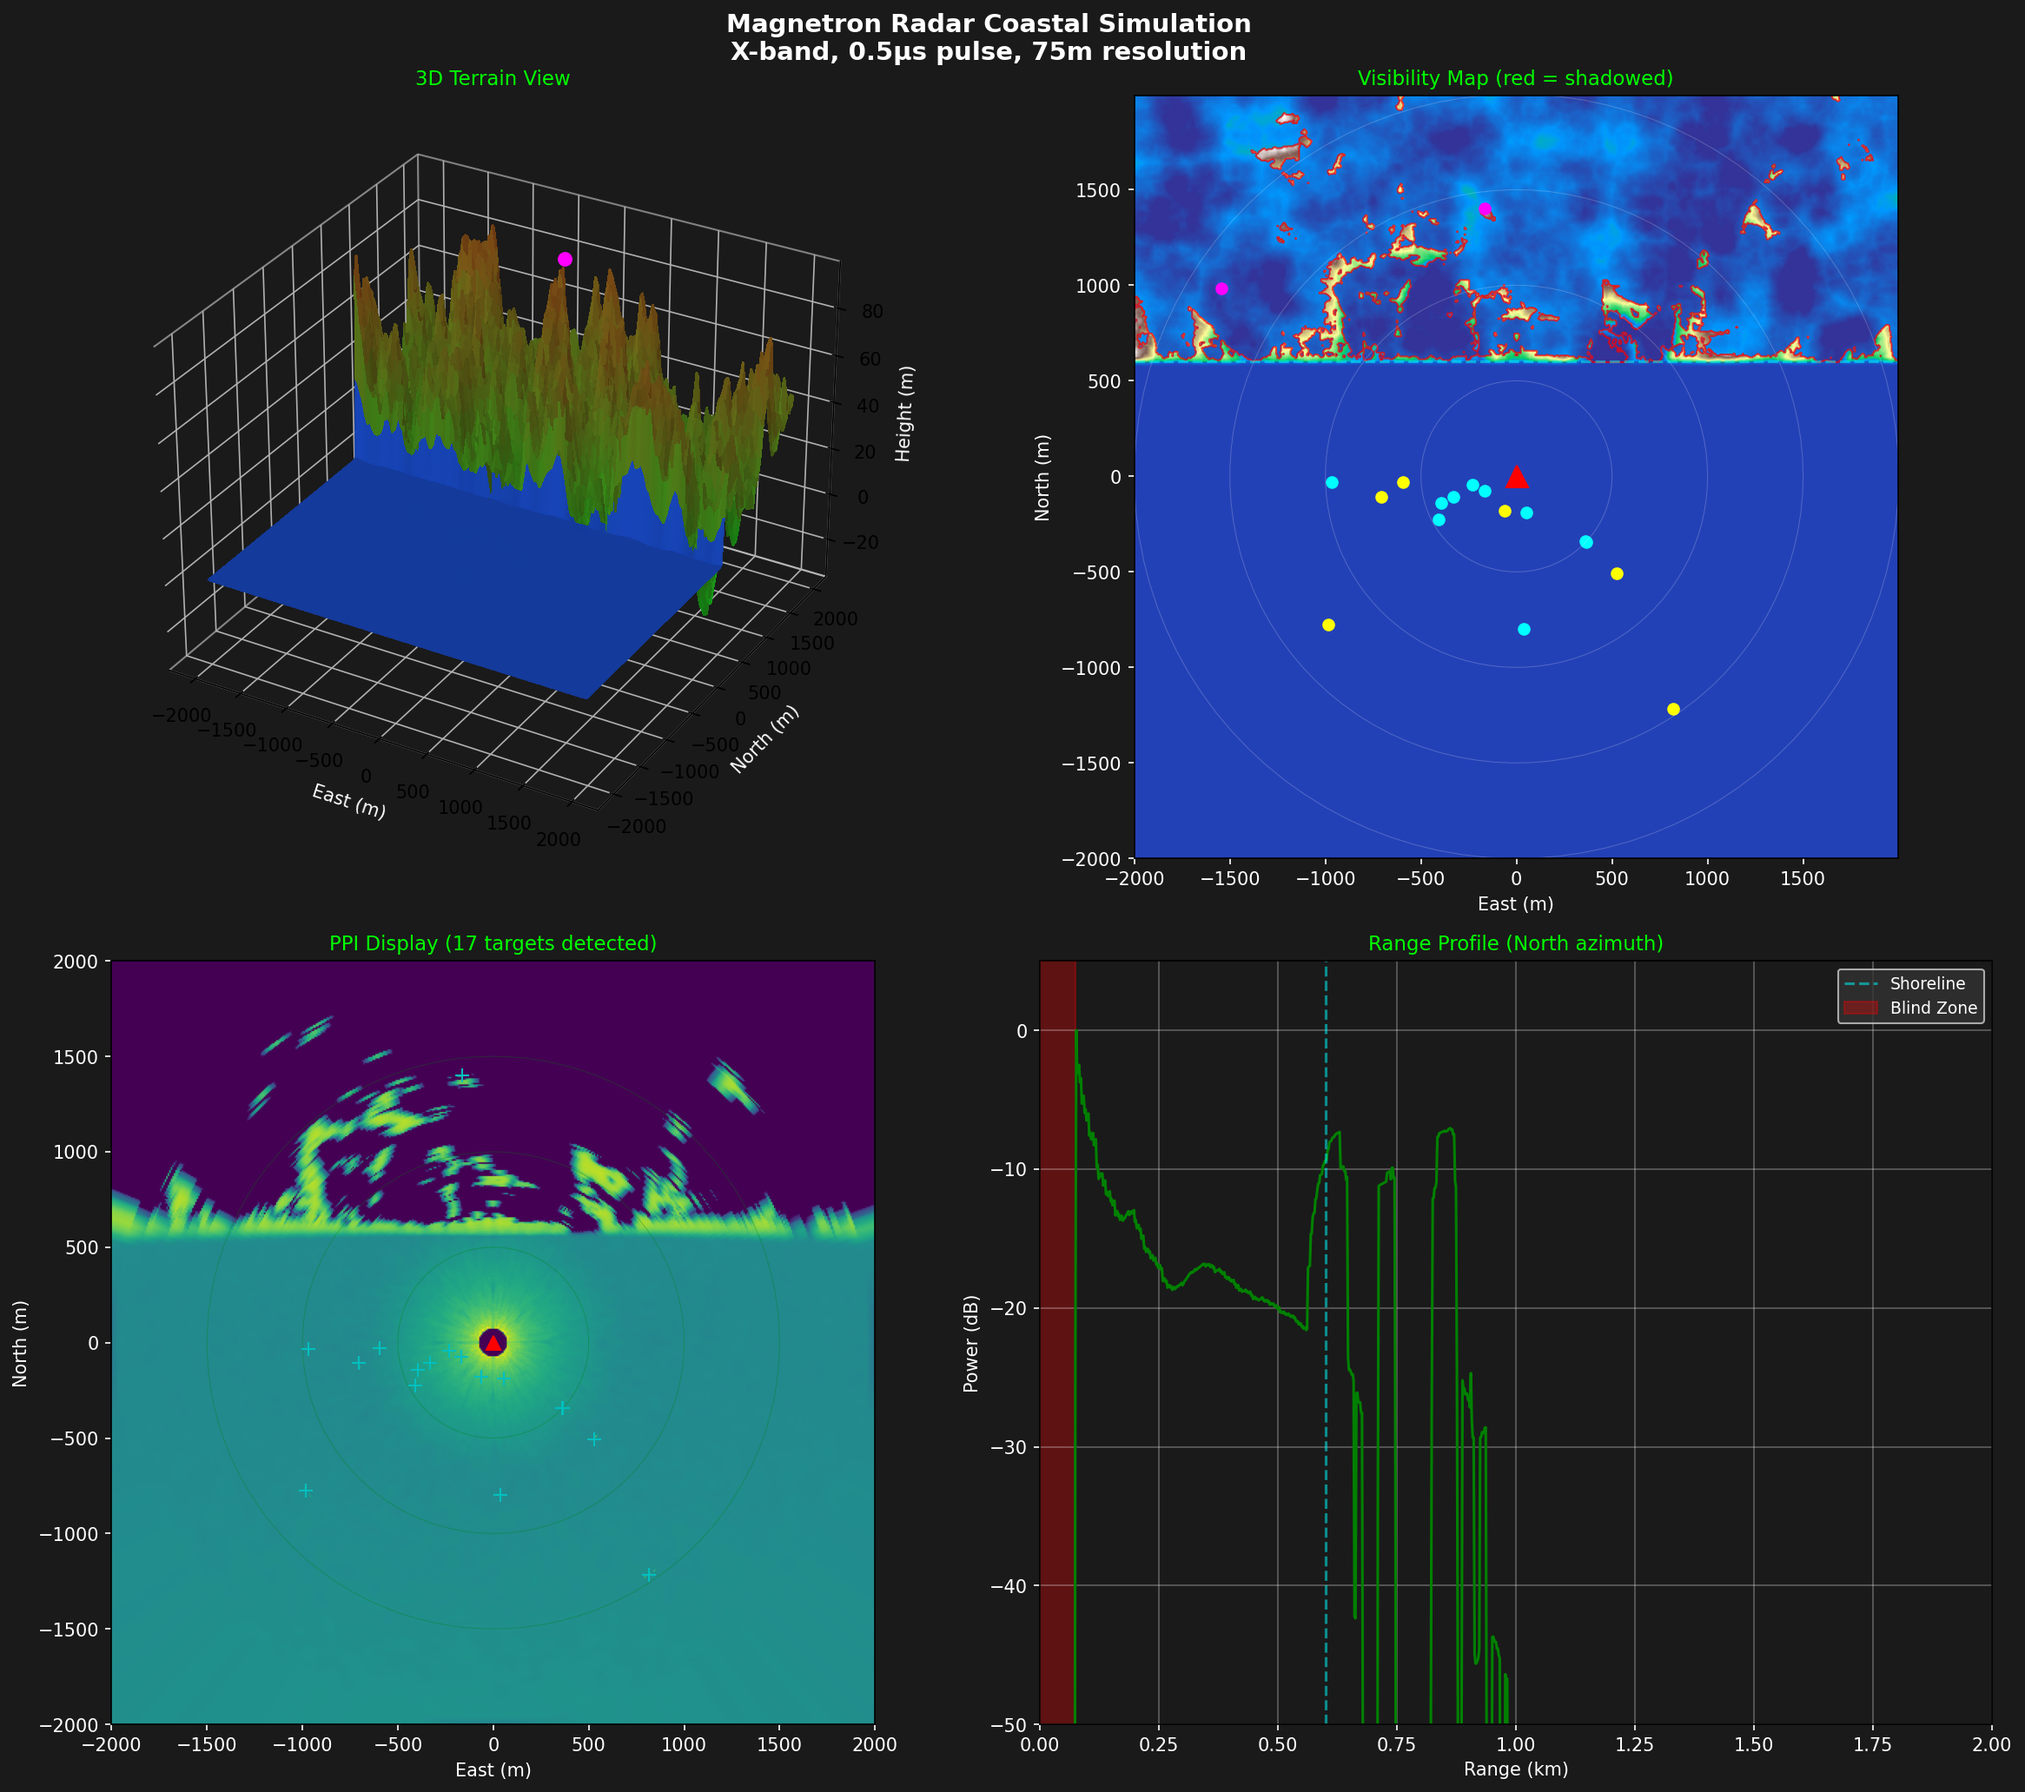
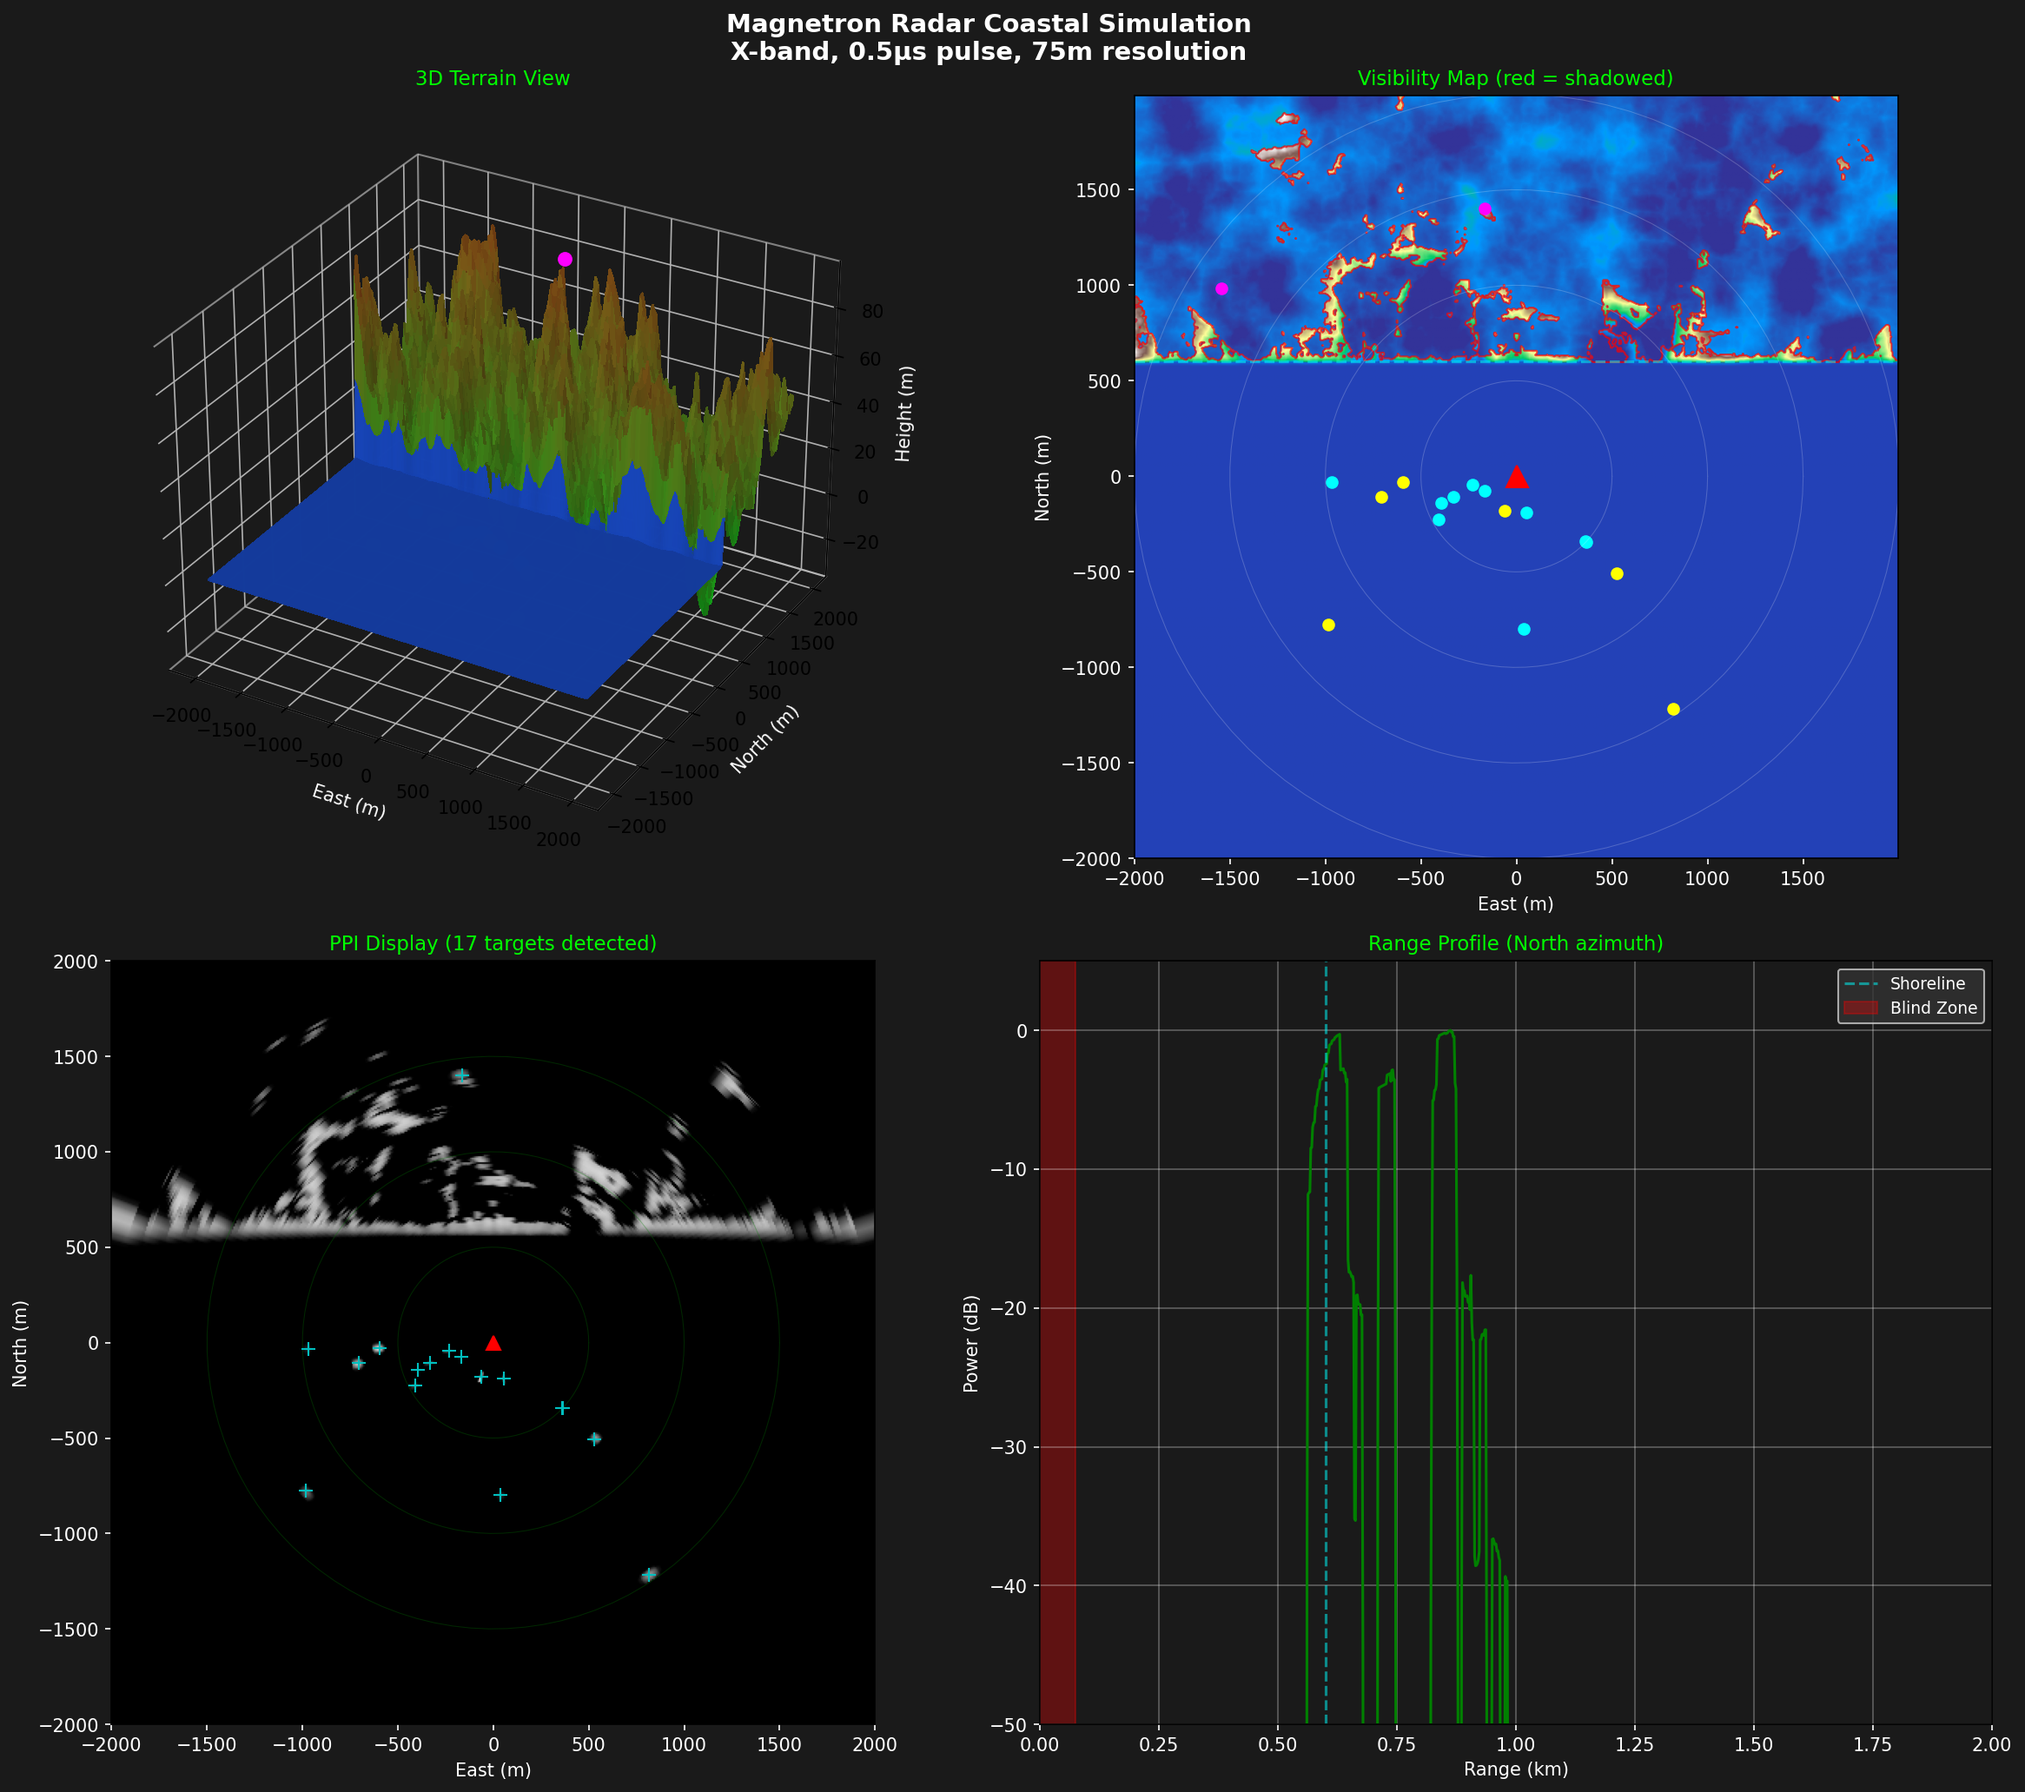
magentron updated

diff --git a/magnetron_coastal_demo.py b/magnetron_coastal_demo.py
@@ -98,7 +98,7 @@ def run_demo():
 
     # Clutter parameters
     land_params = LandClutterParams(terrain_type="mixed")
-    sea_params = SeaClutterParams(sea_state=2, wind_speed_mps=8.0)
+    sea_params = SeaClutterParams(sea_state=1, wind_speed_mps=3.0)  # Calm lake
 
     # Run simulation
     print("\nRunning simulation...")
@@ -278,13 +278,18 @@ def plot_ppi(ax, result):
     ppi = result.ppi_cartesian
     config = result.config
 
-    # Normalize for display
+    # Normalize for display with threshold to cut noise floor
     ppi_norm = normalize_for_display(ppi, dynamic_range_db=40)
+
+    # Apply threshold and gamma to darken noise floor (sea clutter)
+    threshold = 0.2
+    ppi_norm = np.clip((ppi_norm - threshold) / (1 - threshold), 0, 1)
+    ppi_norm = ppi_norm ** 2.0  # Gamma > 1 crushes low values, makes water darker
 
     extent = [-config.max_range_m, config.max_range_m,
               -config.max_range_m, config.max_range_m]
 
-    ax.imshow(ppi_norm, extent=extent, origin='lower', cmap='viridis',
+    ax.imshow(ppi_norm, extent=extent, origin='lower', cmap='gray',
               vmin=0, vmax=1)
 
     # Range rings
@@ -319,10 +324,15 @@ def plot_ppi_detailed(ax, result):
 
     ppi_norm = normalize_for_display(ppi, dynamic_range_db=45)
 
+    # Apply threshold and gamma to darken noise floor (sea clutter)
+    threshold = 0.2
+    ppi_norm = np.clip((ppi_norm - threshold) / (1 - threshold), 0, 1)
+    ppi_norm = ppi_norm ** 2.0  # Gamma > 1 crushes low values
+
     extent = [-config.max_range_m, config.max_range_m,
               -config.max_range_m, config.max_range_m]
 
-    im = ax.imshow(ppi_norm, extent=extent, origin='lower', cmap='viridis')
+    im = ax.imshow(ppi_norm, extent=extent, origin='lower', cmap='gray')
 
     # Range rings with labels
     for r in [500, 1000, 1500, 2000]:

diff --git a/src/magnetron_pipeline.py b/src/magnetron_pipeline.py
@@ -279,12 +279,35 @@ def run_magnetron_simulation(
             config.wavelength_m
         )
 
-        # Add to PPI
+        # Add to PPI with range extent (pulse width causes range smearing)
         az_idx = int(target_az / 360 * n_azimuths) % n_azimuths
         range_idx = int(target_range / config.max_range_m * n_range_bins)
 
-        if 0 <= range_idx < n_range_bins:
-            ppi_polar[az_idx, range_idx] += power
+        # Spread return over range bins based on pulse width
+        # Range extent = pulse_width * c / 2 = range_resolution
+        range_bin_width = config.max_range_m / n_range_bins
+        pulse_extent_bins = max(1, int(config.range_resolution_m / range_bin_width))
+
+        # Create realistic blob shape - Gaussian-like, soft on both edges
+        # Slightly asymmetric (bit more trailing than leading)
+        blob_sigma = pulse_extent_bins * 0.18  # Very compact blob
+        blob_center_offset = 1  # Peak slightly behind front edge
+
+        # Spread over range (both before and after target position)
+        for dr in range(-int(blob_sigma * 2), int(blob_sigma * 2.5) + 1):
+            r_idx = range_idx + dr
+            if 0 <= r_idx < n_range_bins:
+                # Gaussian-like envelope, slightly asymmetric
+                if dr < blob_center_offset:
+                    # Leading edge - slightly steeper
+                    sigma_eff = blob_sigma * 0.8
+                else:
+                    # Trailing edge - slightly wider
+                    sigma_eff = blob_sigma * 1.2
+
+                dist = dr - blob_center_offset
+                weight = np.exp(-0.5 * (dist / sigma_eff) ** 2)
+                ppi_polar[az_idx, r_idx] += power * weight
 
         detected_targets.append({
             'name': target.name,

diff --git a/src/clutter/models.py b/src/clutter/models.py
@@ -94,46 +94,13 @@ def compute_sea_sigma0(
     params: SeaClutterParams,
     frequency_hz: float = 9.5e9
 ) -> float:
-    """Compute sea clutter sigma0 using simplified Georgia Tech model.
-
-    The GIT model accounts for sea state, wind, and grazing angle.
-
-    Args:
-        grazing_angle_rad: Grazing angle in radians
-        params: Sea clutter parameters
-        frequency_hz: Radar frequency
+    """Compute sea clutter sigma0.
 
     Returns:
         sigma0 in linear units (m²/m²)
     """
-    # Simplified GIT model parameters for X-band
-    # sigma0_dB = A * log10(sin(psi)) + B
-
-    # Sea state factor (higher sea state = more clutter)
-    sea_factor = 1 + 0.15 * params.sea_state
-
-    # Wind factor (more wind = rougher sea = more clutter)
-    wind_factor = 1 + 0.02 * params.wind_speed_mps
-
-    # Wind direction effect (upwind sees more clutter than downwind)
-    wind_angle_rad = np.radians(params.wind_direction_deg)
-    direction_factor = 1 + 0.3 * np.cos(wind_angle_rad)
-
-    # Base sigma0 at X-band for moderate sea
-    base_sigma0_db = -25.0
-
-    # Grazing angle dependence (steeper = more clutter)
-    sin_psi = np.sin(np.maximum(grazing_angle_rad, 0.01))
-    grazing_db = 10 * np.log10(sin_psi + 1e-10)
-
-    # Combined sigma0
-    sigma0_db = base_sigma0_db + grazing_db * 1.5
-    sigma0_db += 10 * np.log10(sea_factor * wind_factor * direction_factor)
-
-    # Clamp to reasonable range
-    sigma0_db = np.clip(sigma0_db, -50, 0)
-
-    return 10 ** (sigma0_db / 10)
+    # No water reflections - perfectly calm/flat water returns nothing
+    return 0.0
 
 
 def compute_clutter_rcs(
